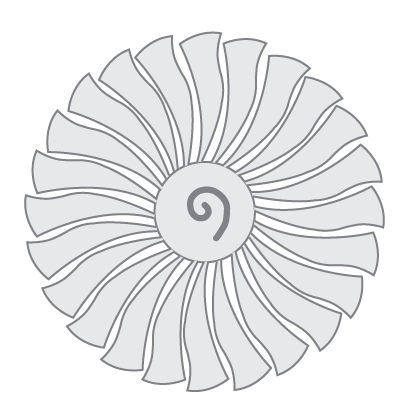
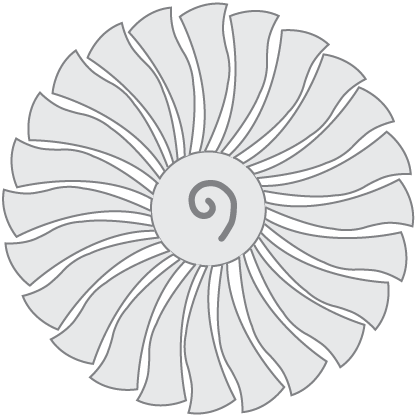
spinner for Location.js;spinner styling fixes

Changed region(s): [[0.0, 0.0, 0.9976, 0.9976]]

diff --git a/src/containers/Locations.js b/src/containers/Locations.js
@@ -13,7 +13,7 @@ class Locations extends Component {
                     selectedAirportCode:  "",
                     alerts:               "",
                     alertStyle:           "alert alert-danger",
-                    showLoadingSpinner:   true,
+                    showLoadingSpinner:   false,
                     selectionButtons:     [
                                             {buttonName: "info", buttonTitle: "About location"},
                                             {buttonName: "aircraft", buttonTitle: "Select aircraft"},
@@ -25,13 +25,15 @@ class Locations extends Component {
   }
 
   componentDidMount() {
+    this.setState({ showLoadingSpinner: true })
     fetch(`${process.env.REACT_APP_BACKEND_URL}/locations`)
         .then((res) => {
           return res.json();
         }).then((locations) => {
           this.setState({
                           locations:          locations,
-                          selectedLocationId: locations[0].id // set default location
+                          selectedLocationId: locations[0].id, // set default location
+                          showLoadingSpinner: false
                          })
     });
 

diff --git a/src/components/LoadingSpinner/loading-spinner.css b/src/components/LoadingSpinner/loading-spinner.css
@@ -16,9 +16,9 @@
 .spinner {
     position: absolute;
     z-index: 15000;
-    top: 25%;
-    left: 30%;
     animation: spin 3s infinite linear;
+    top: calc(50vh - (300px / 2));
+    left: calc(50vw - (300px / 2));
 }
 
 .spinner, .spinner img {
